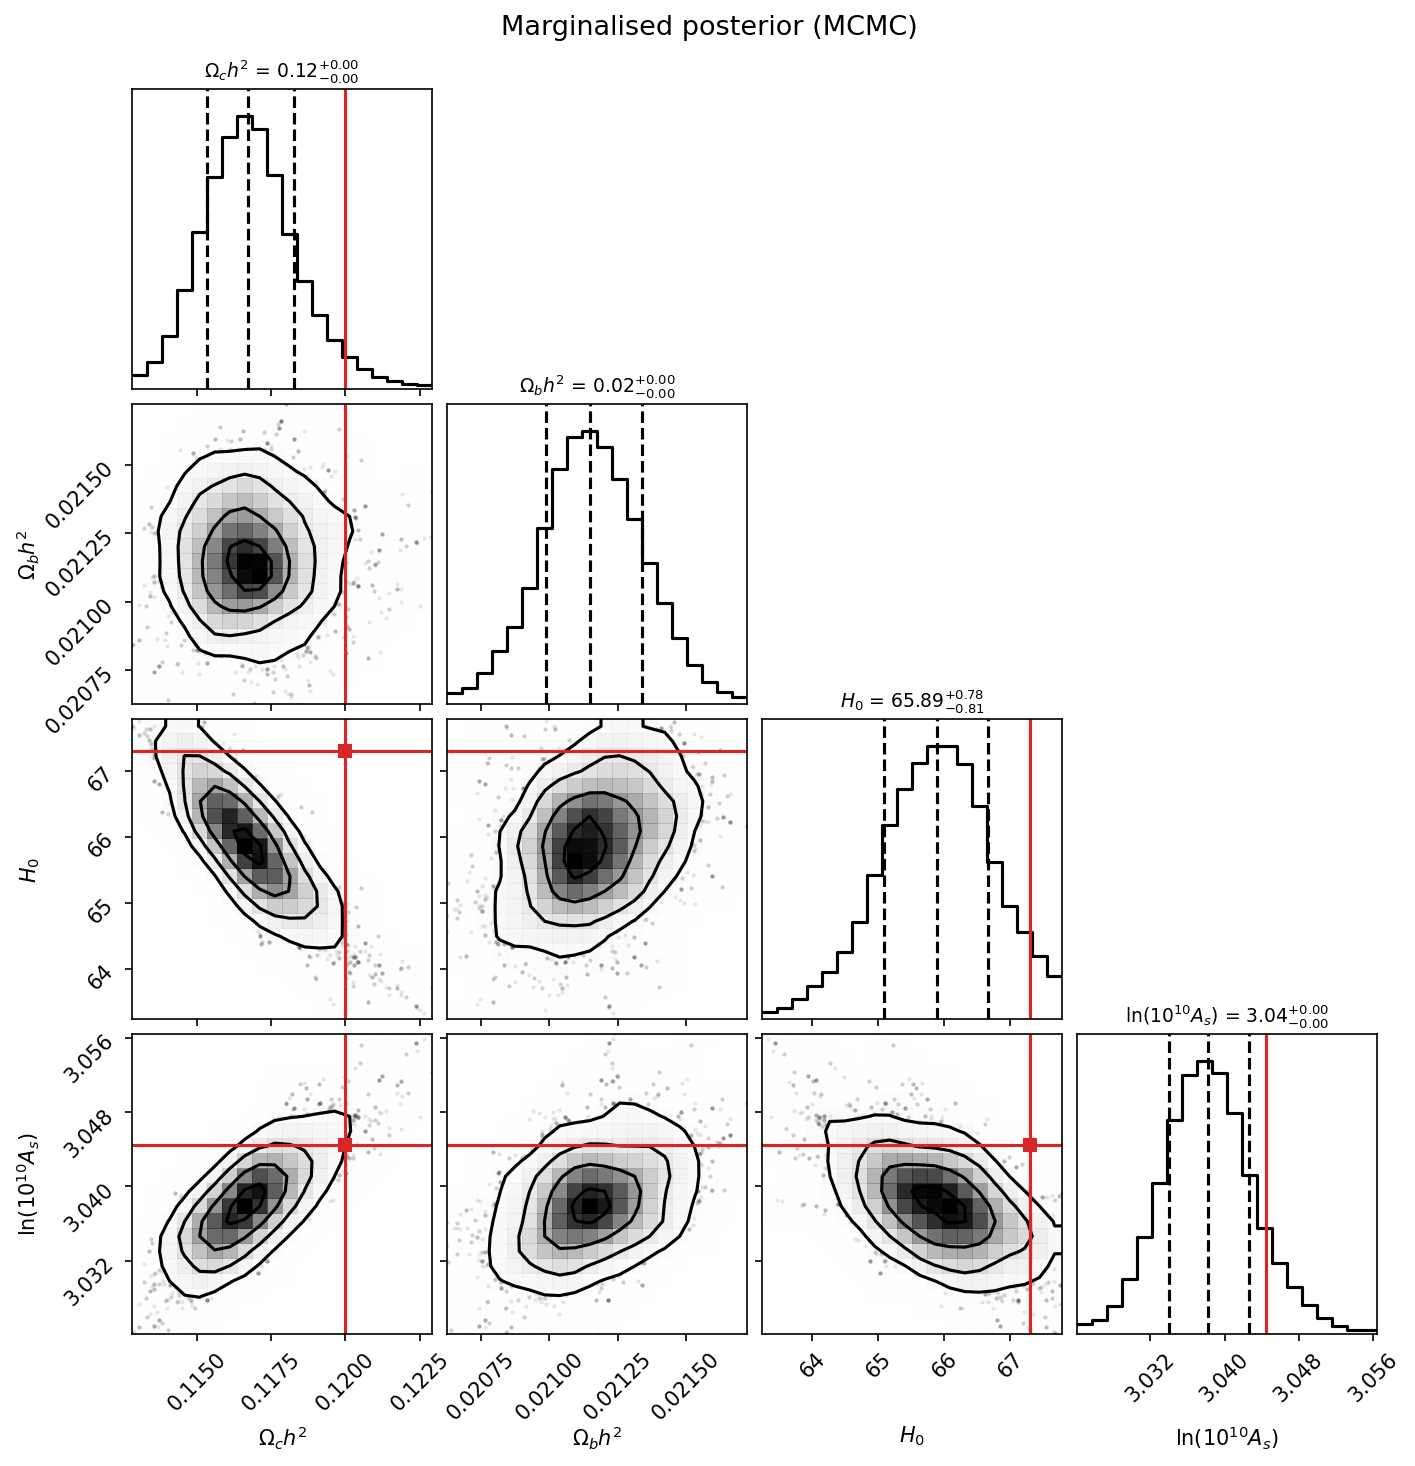
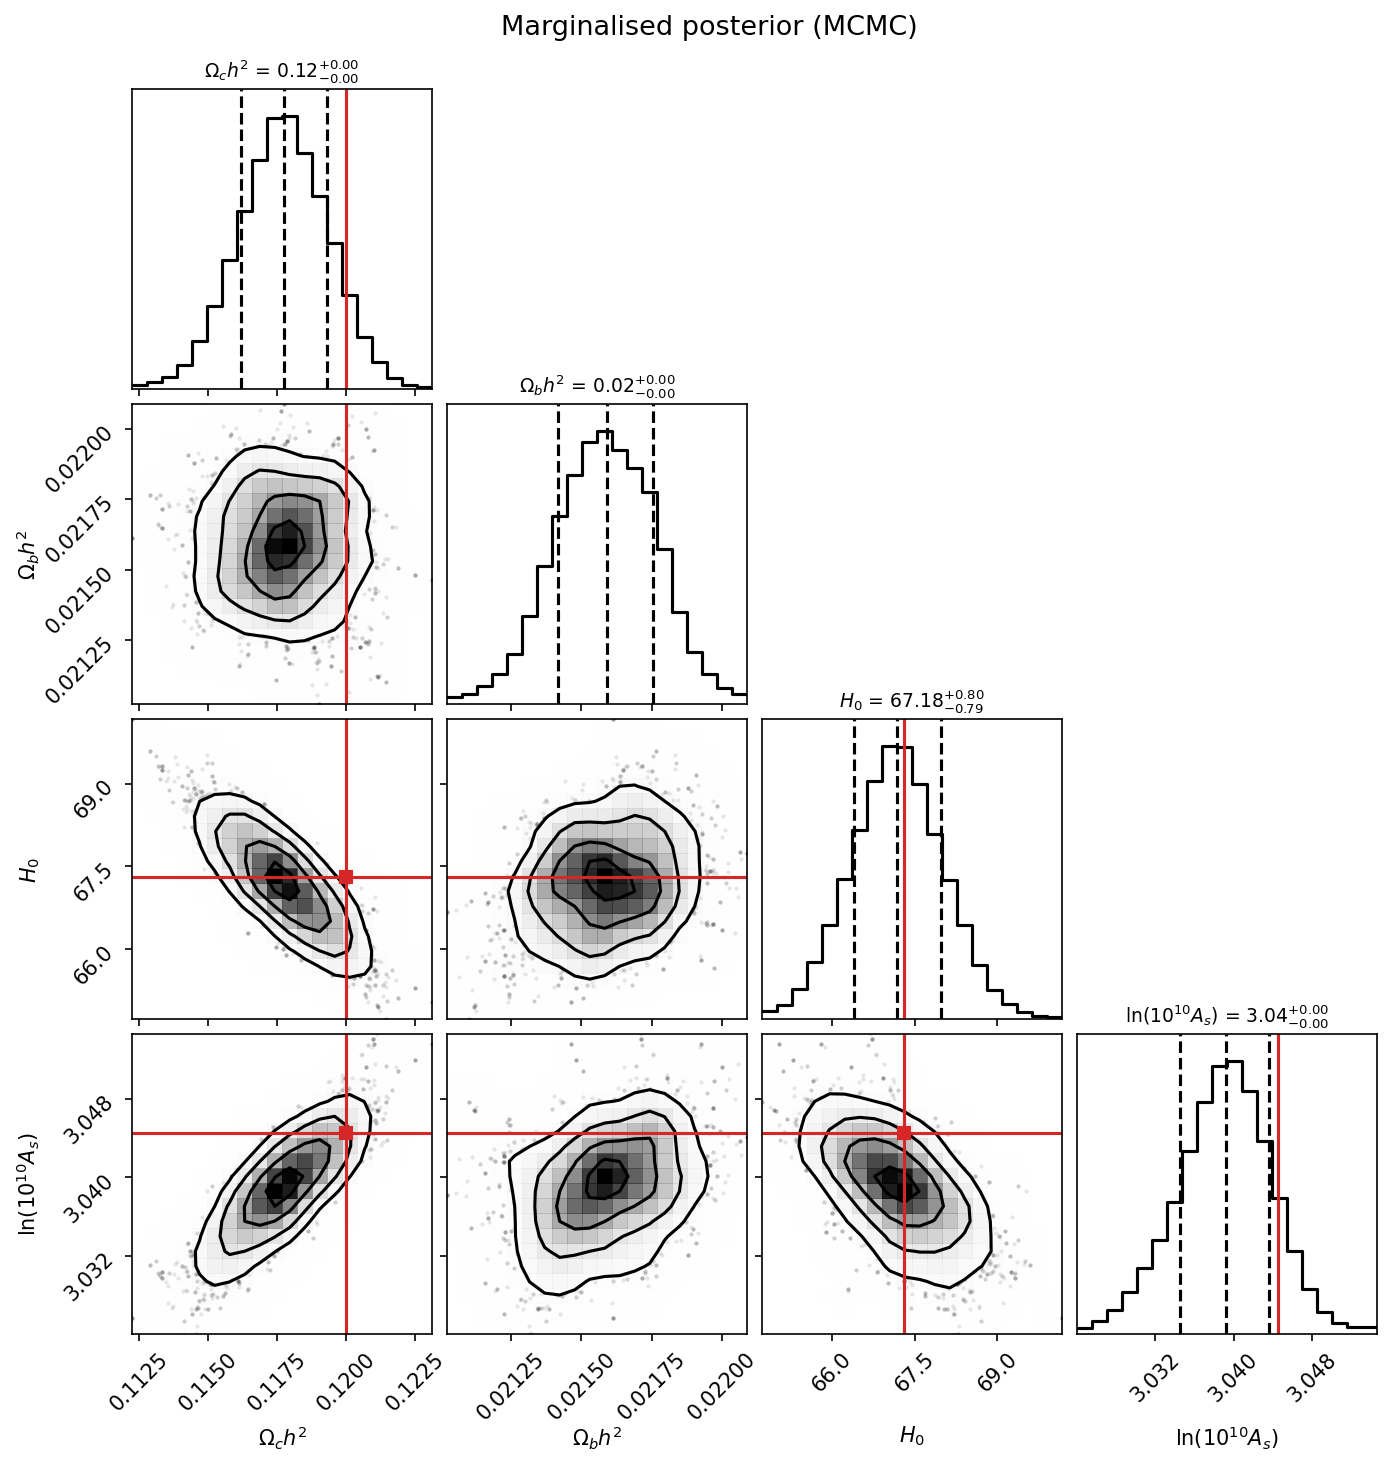
Update CMB analysis scripts and add corner plot functionality

diff --git a/src/Centrale/CMB/cmb_fit.py b/src/Centrale/CMB/cmb_fit.py
@@ -2,6 +2,7 @@ import numpy as np
 import matplotlib.pyplot as plt
 import time
 import emcee
+import corner
 from tqdm import tqdm
 import healpy as hp
 from camb import CAMBparams, get_results
@@ -12,7 +13,6 @@ NOISE_UK = 10.0  # white-noise per pixel [µK]
 # lmax = 3×nside is the HEALPix-supported ceiling for TT (spin-0); map2alm iter=3 deconvolves
 # the pixel window reliably in this range. Goes to ell~768: covers peaks 1, 2, and base of 3.
 LMAX_FACTOR = 3  # multiply by nside to get lmax
-TAU_FIXED   = 0.054  # fixed from Planck EE; TT sees only As·e^{-2τ}, so τ is not a TT parameter
 
 # Planck-inspired linear binning (Plik likelihood uses uniform Δell, not log-spaced).
 # Log bins under-sample the acoustic peaks; uniform bins give ~equal modes per bin
@@ -40,19 +40,22 @@ def camb_spectrum(params, lmax):
 
 def bin_spectrum(ell, cl, bin_edges):
     """
-    (2ell+1)-weighted average of C_ell within each bin.
-    Returns (ell_centres, cl_binned, n_modes_per_bin).
+    (2ℓ+1)-weighted bandpower average using vectorised np.digitize + np.bincount.
+    Returns (ell_centres, cl_binned, n_modes_per_bin) for non-empty bins only.
     """
-    centres, cl_b, modes = [], [], []
-    for lo, hi in zip(bin_edges[:-1], bin_edges[1:]):
-        mask = (ell >= lo) & (ell < hi) & (ell > 0)
-        if not mask.any():
-            continue
-        w = 2 * ell[mask] + 1
-        centres.append((w * ell[mask]).sum() / w.sum())
-        cl_b.append((w * cl[mask]).sum() / w.sum())
-        modes.append(w.sum())
-    return np.array(centres), np.array(cl_b), np.array(modes)
+    ell, cl = np.asarray(ell, dtype=float), np.asarray(cl, dtype=float)
+    mask = (ell > 0) & (ell >= bin_edges[0]) & (ell < bin_edges[-1])
+    el, cl_ = ell[mask], cl[mask]
+    w   = 2 * el + 1
+    idx = np.digitize(el, bin_edges) - 1   # 0-indexed bin for each mode
+    n   = len(bin_edges) - 1
+
+    W   = np.bincount(idx, weights=w,        minlength=n)
+    Wel = np.bincount(idx, weights=w * el,   minlength=n)
+    Wcl = np.bincount(idx, weights=w * cl_,  minlength=n)
+
+    valid = W > 0
+    return Wel[valid] / W[valid], Wcl[valid] / W[valid], W[valid]
 
 
 def to_dl(ell, cl):
@@ -67,8 +70,8 @@ class CMBAnalyzer:
         self.nside = nside
         self.lmax = LMAX_FACTOR * nside
         self.npix = 12 * nside**2
-        self.N_ell = noise_uk**2 * 4 * np.pi / self.npix
-        self._noise_uk = noise_uk
+        self.N_ell    = noise_uk**2 * 4 * np.pi / self.npix
+        self.noise_uk = noise_uk
 
         # Planck-inspired hybrid linear binning:
         #   fine bins (Δell=DELTA_ELL_LO) at low ell to resolve the Sachs-Wolfe plateau
@@ -83,9 +86,8 @@ class CMBAnalyzer:
         Also returns the unbinned (ell, cl_obs) for plotting.
         """
         _, cl_true = camb_spectrum(params_true, self.lmax)
-        sky = hp.alm2map(hp.synalm(cl_true, lmax=self.lmax), nside=self.nside)
-        noise = np.random.normal(0, self._noise_uk, self.npix)
-        sky += noise
+        sky  = hp.alm2map(hp.synalm(cl_true, lmax=self.lmax), nside=self.nside)
+        sky += np.random.normal(0, self.noise_uk, self.npix)
 
         cl_obs = hp.alm2cl(hp.map2alm(sky, lmax=self.lmax))
         ell_obs = np.arange(len(cl_obs), dtype=float)
@@ -108,8 +110,8 @@ class CMBAnalyzer:
         """
 
         param_keys = ["omch2", "ombh2", "H0", "As"]
-        bound_lo = np.array([0.05,  0.010, 50.0, 1.5e-9])
-        bound_hi = np.array([0.30,  0.050, 90.0, 3.5e-9])
+        bound_lo = np.array([0.05, 0.010, 50.0, 1.5e-9])
+        bound_hi = np.array([0.30, 0.050, 90.0, 3.5e-9])
 
         def log_prior(p):
             if np.any(p < bound_lo) or np.any(p > bound_hi):
@@ -132,8 +134,8 @@ class CMBAnalyzer:
 
         # Initialise walkers as a tight ball around Planck-like fiducial values.
         rng = np.random.default_rng(42)
-        p0_center = np.array([0.12,  0.022, 67.3, 2.1e-9])
-        p0_sigma  = np.array([0.01,  0.002,  2.0, 0.1e-9])
+        p0_center = np.array([0.12, 0.022, 67.3, 2.1e-9])
+        p0_sigma = np.array([0.01, 0.002, 2.0, 0.1e-9])
         p0 = p0_center + p0_sigma * rng.standard_normal((n_walkers, 4))
 
         sampler = emcee.EnsembleSampler(n_walkers, 4, log_posterior)
@@ -157,20 +159,24 @@ class CMBAnalyzer:
     # ── Diagnostic plots ─────────────────────────────────────────────────────
     def plot_walkers(self, sampler, params_true, n_burn):
         """Plot MCMC walker chains for each parameter."""
-        chain = sampler.get_chain()  # (n_steps, n_walkers, n_params)
-        # As is displayed as ln(10^10 As) — the standard cosmology convention (~3.04)
-        chain_plot       = chain.copy()
-        chain_plot[:, :, 3] = np.log(chain_plot[:, :, 3] * 1e10)
+        chain = sampler.get_chain()  # (n_chain_steps, n_walkers, n_params)
+        # As displayed as ln(10^10 As) — the standard cosmology convention (~3.04)
+        chain_As_log = np.log(chain[:, :, 3] * 1e10)
         labels = [r"$\Omega_c h^2$", r"$\Omega_b h^2$", r"$H_0$", r"$\ln(10^{10}A_s)$"]
-        truths = [params_true["omch2"], params_true["ombh2"], params_true["H0"],
-                  np.log(params_true["As"] * 1e10)]
-        n_steps, n_walkers, _ = chain.shape
+        truths = [
+            params_true["omch2"],
+            params_true["ombh2"],
+            params_true["H0"],
+            np.log(params_true["As"] * 1e10),
+        ]
+        n_chain_steps, n_walkers, _ = chain.shape
 
         fig, axes = plt.subplots(4, 1, figsize=(10, 8), sharex=True)
         for i, (ax, label, truth) in enumerate(zip(axes, labels, truths)):
-            ax.plot(chain_plot[:, :, i], "k-", alpha=0.08, linewidth=0.7)
+            data = chain_As_log if i == 3 else chain[:, :, i]
+            ax.plot(data, "k-", alpha=0.08, linewidth=0.7)
             ax.plot(
-                np.median(chain_plot[:, :, i], axis=1),
+                np.median(data, axis=1),
                 "tab:blue",
                 linewidth=1.5,
                 label="Median" if i == 0 else "",
@@ -197,20 +203,16 @@ class CMBAnalyzer:
 
     def plot_corner(self, flat_samples, params_true):
         """Triangle (corner) plot of the marginalised posterior."""
-        try:
-            import corner
-        except ImportError:
-            import subprocess
-
-            subprocess.check_call(["pip", "install", "corner"])
-            import corner
-
         # Transform As → ln(10^10 As) for readable axis values
-        samples_plot    = flat_samples.copy()
+        samples_plot = flat_samples.copy()
         samples_plot[:, 3] = np.log(samples_plot[:, 3] * 1e10)
         labels = [r"$\Omega_c h^2$", r"$\Omega_b h^2$", r"$H_0$", r"$\ln(10^{10}A_s)$"]
-        truths = [params_true["omch2"], params_true["ombh2"], params_true["H0"],
-                  np.log(params_true["As"] * 1e10)]
+        truths = [
+            params_true["omch2"],
+            params_true["ombh2"],
+            params_true["H0"],
+            np.log(params_true["As"] * 1e10),
+        ]
 
         fig = corner.corner(
             samples_plot,
@@ -277,7 +279,7 @@ class CMBAnalyzer:
         # ── Parameter recovery ────────────────────────────────────────────────
         for col, (key, label) in enumerate(
             zip(
-                ["omch2",          "ombh2",          "H0",   "As"],
+                ["omch2", "ombh2", "H0", "As"],
                 [r"$\Omega_c h^2$", r"$\Omega_b h^2$", r"$H_0$", r"$A_s\ [10^{-9}]$"],
             )
         ):
@@ -285,7 +287,7 @@ class CMBAnalyzer:
             # Display As in units of 10^-9 for readability
             scale = 1e9 if key == "As" else 1.0
             t = params_true[key] * scale
-            f = params_fit[key]  * scale
+            f = params_fit[key] * scale
             err = 100 * (f - t) / t
             clr = "tab:green" if abs(err) < 5 else "tab:orange" if abs(err) < 20 else "tab:red"
             ax.bar(["True", "Fitted"], [t, f], color=["steelblue", clr], alpha=0.85, width=0.5)
@@ -341,10 +343,10 @@ def main():
     print(f"\n{'Parameter':<15} {'True':<12} {'Fitted':<12} {'Error %'}")
     print("-" * 55)
     for key, name, scale in [
-        ("omch2", "Ωc h²",    1),
-        ("ombh2", "Ωb h²",    1),
-        ("H0",    "H₀",       1),
-        ("As",    "As [1e-9]", 1e9),
+        ("omch2", "Ωc h²", 1),
+        ("ombh2", "Ωb h²", 1),
+        ("H0", "H₀", 1),
+        ("As", "As [1e-9]", 1e9),
     ]:
         t, f = params_true[key] * scale, params_fit[key] * scale
         print(f"{name:<15} {t:<12.5f} {f:<12.5f} {100 * abs(f - t) / t:.2f}%")
